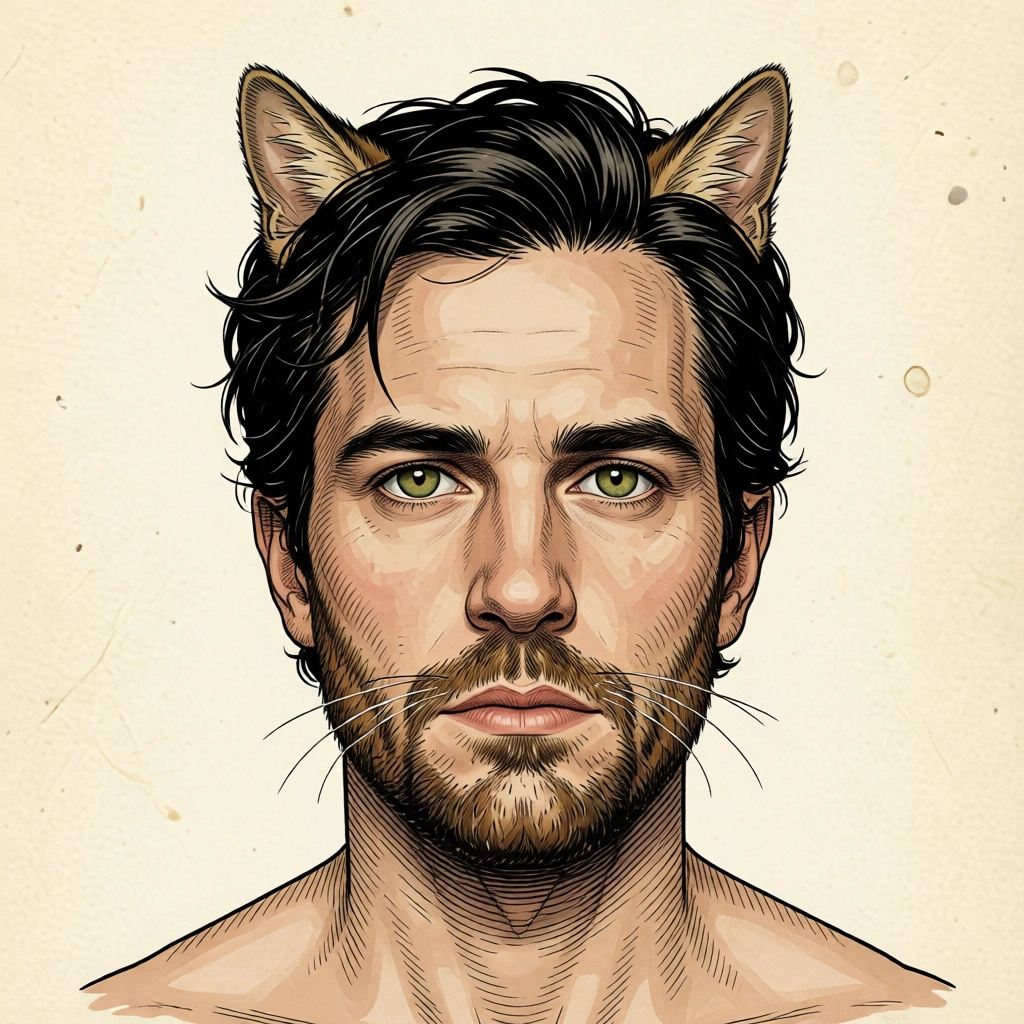
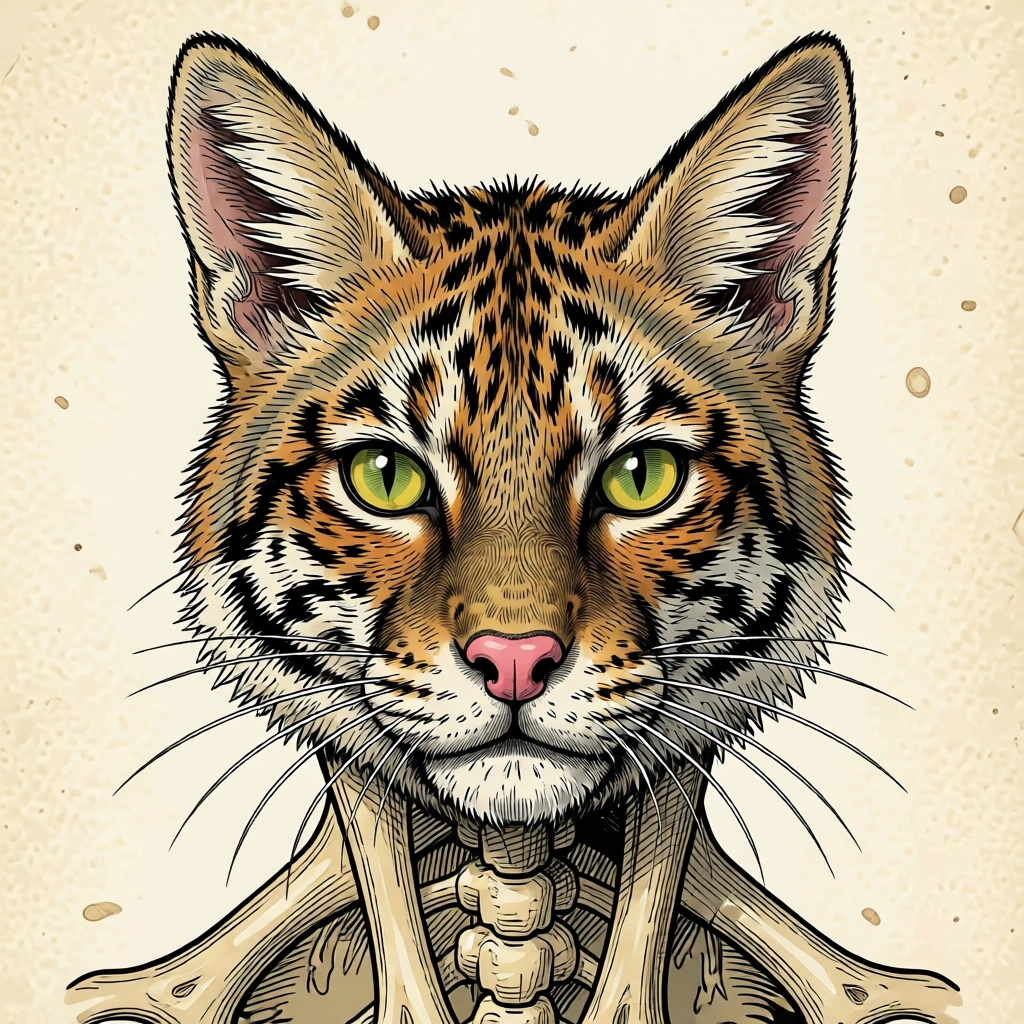
fix(pet-filter): hybrid balance 30/70 — animal-dominant
User feedback: '动物特征多一点，人的特征少一点'. Earlier 50/50 still
read 'human face with creature features added'. Now push to ~30/70:

- HYBRID_PREFIX: 'creature that is MOSTLY ANIMAL with subtle traces
  of human identity buried underneath'
- HYBRID_SUFFIX_GUARD: '~30% human (jawline + eye position +
  shoulders) / ~70% creature (fur, ears, snout, eyes — ALL surface)'
- Per-species: 'PREDOMINANTLY [species]', 'fur covers ALL of the
  face', 'no human skin visible', 'replaces the nose and mouth',
  'only jawline + shoulders subtly hint at the human'

Result should be: looks like an animal at a glance, but on closer
look the jaw / eye position / shoulder structure reveal it's still
the same person underneath.

diff --git a/src/PetFilter/utils/pets.ts b/src/PetFilter/utils/pets.ts
@@ -50,22 +50,23 @@ const STYLE_SUFFIX = (
 // Each prompt leads with the HYBRID framing. The reference image is
 // the user's photo; the model must keep their face recognizable while
 // overlaying the species-specific features below.
-// HYBRID prompt v3. Balance shifted from 70/30 → 50/50:
-// the species features now occupy roughly HALF the head, but the
-// underlying bone structure (jaw, shoulders, eye position) stays
-// recognizable. Earlier 70/30 version produced "human with a hat";
-// this version produces an honest hybrid creature.
+// HYBRID prompt v4. Pushed further: 30/70 (human/creature).
+// Earlier 50/50 still read as "human face + ears" — too human. Now
+// the creature dominates: full fur, full ears replacing hair, full
+// animal eyes. Only the JAWLINE + EYE POSITION + SHOULDERS subtly
+// hint at the human underneath.
 const HYBRID_PREFIX = (
-  'A 19th-century zoological plate of a STRIKING HYBRID creature. ' +
-  'Begin with the person in the reference photo — their facial bone ' +
-  'structure, eye position, jawline, and human shoulders MUST still ' +
-  'be recognizable underneath. But push the species features ' +
-  'PROMINENTLY: they should occupy roughly half the head — bold, ' +
-  'visible, illustrative. Transform their head this way: '
+  'A 19th-century zoological plate of a creature that is MOSTLY ANIMAL ' +
+  'with subtle traces of human identity buried underneath. Reference ' +
+  'the photo only loosely — keep their JAWLINE, their EYE POSITION, ' +
+  'and their HUMAN SHOULDERS visible. Everything else about the head ' +
+  'should be the species. The creature dominates; the human is barely ' +
+  'a ghost of identity inside it. Transform their head this way: '
 );
 const HYBRID_SUFFIX_GUARD = (
-  ' Balance: ~50% human bone structure visible / ~50% creature features ' +
-  'covering the surface. Same person, dramatically transformed. ' +
+  ' Balance: ~30% human (jawline + eye position + shoulders) / ~70% ' +
+  'creature (fur, ears, snout, eyes — ALL of the surface). Lean hard ' +
+  'into the animal. ' +
   'DO NOT include any plaque, ID number, or written text in the image.'
 );
 
@@ -78,7 +79,7 @@ export const PETS: Pet[] = [
     plate: 'I',
     category: 'everyday',
     tint: '#8B4B3A',
-    prompt: HYBRID_PREFIX + 'the face is now SUBSTANTIALLY feline — soft tabby fur covers the cheeks, forehead, and jaw, LARGE triangular tabby cat ears rising prominently from the hair, full feline almond-shaped yellow-green eyes with vertical slit pupils, a distinct pink cat nose, prominent white whiskers fanning out from the muzzle. Bone structure still recognizable.' + HYBRID_SUFFIX_GUARD + STYLE_SUFFIX,
+    prompt: HYBRID_PREFIX + 'the face is now PREDOMINANTLY feline — full tabby cat fur covers ALL of the face (cheeks, forehead, jaw, chin), only fur visible. LARGE triangular tabby ears replace the hair. Full feline almond-shape eyes with vertical slit pupils and amber-yellow irises. A small pink cat nose triangle. Long white whiskers fan from a furry muzzle. Only jawline + shoulder bones subtly hint at the human.' + HYBRID_SUFFIX_GUARD + STYLE_SUFFIX,
   },
   {
     id: 'dog',
@@ -87,7 +88,7 @@ export const PETS: Pet[] = [
     plate: 'II',
     category: 'everyday',
     tint: '#8B4B3A',
-    prompt: HYBRID_PREFIX + 'the face is now SUBSTANTIALLY canine — soft dog fur covers the cheeks, forehead, and jaw, prominent floppy lop ears hanging from the head, a clear dog snout extending forward from the nose, a wet black dog nose, big warm honest brown eyes, mouth slightly open in a gentle smile. Bone structure still recognizable.' + HYBRID_SUFFIX_GUARD + STYLE_SUFFIX,
+    prompt: HYBRID_PREFIX + 'the face is now PREDOMINANTLY canine — full dog fur covers ALL of the face, no human skin visible. Long floppy lop ears hang from the head replacing the hair. A pronounced dog snout extends forward replacing the nose and mouth area. A wet black dog nose. Big warm brown dog eyes. Mouth slightly open with tongue showing. Only jawline + shoulders subtly hint at the human.' + HYBRID_SUFFIX_GUARD + STYLE_SUFFIX,
   },
   {
     id: 'hamster',
@@ -96,7 +97,7 @@ export const PETS: Pet[] = [
     plate: 'III',
     category: 'everyday',
     tint: '#A67C3F',
-    prompt: HYBRID_PREFIX + 'the face is now SIGNIFICANTLY rodent — large puffy stuffed caramel cheeks dominate the lower face, soft golden fur covers the cheeks and forehead, small round hamster ears sit prominently on the head, a tiny pink twitching nose, bright black bead eyes. Bone structure still recognizable underneath.' + HYBRID_SUFFIX_GUARD + STYLE_SUFFIX,
+    prompt: HYBRID_PREFIX + 'the face is now PREDOMINANTLY hamster — full caramel-golden hamster fur covers ALL of the face, huge stuffed round cheeks puff out from each side, round hamster ears on top of the head, a tiny pink twitching nose. Full black bead-bright hamster eyes. Only jawline + shoulders subtly hint at the human.' + HYBRID_SUFFIX_GUARD + STYLE_SUFFIX,
   },
   {
     id: 'duck',
@@ -105,7 +106,7 @@ export const PETS: Pet[] = [
     plate: 'IV',
     category: 'everyday',
     tint: '#B08C2E',
-    prompt: HYBRID_PREFIX + 'a wide prominent flat orange duck bill protruding from the lower face, soft yellow duckling down covering the cheeks and neck like sideburns, calm dark beady duck eyes, the bone structure underneath still recognizable.' + HYBRID_SUFFIX_GUARD + STYLE_SUFFIX,
+    prompt: HYBRID_PREFIX + 'the head is now PREDOMINANTLY duck — fluffy yellow duckling down covers ALL of the face, a wide flat orange duck bill extends prominently replacing the nose and mouth, no human skin visible, calm dark beady duck eyes. Only jawline + shoulders subtly hint at the human.' + HYBRID_SUFFIX_GUARD + STYLE_SUFFIX,
   },
 
   // ─── Wholesome quirky ───
@@ -116,7 +117,7 @@ export const PETS: Pet[] = [
     plate: 'V',
     category: 'wholesome',
     tint: '#7A5B2F',
-    prompt: HYBRID_PREFIX + 'soft coarse brown capybara fur completely covers the cheeks, jaw, and neck, a prominent blunt capybara snout pushes forward from the nose, small rounded capybara ears sit visibly on top of the head, sleepy heavy-lidded brown eyes. Forehead and bone structure still hold the subject\'s identity.' + HYBRID_SUFFIX_GUARD + STYLE_SUFFIX,
+    prompt: HYBRID_PREFIX + 'the face is now PREDOMINANTLY capybara — coarse brown fur covers ALL of the face and neck, no human skin visible, a large blunt capybara snout extends forward replacing the nose and mouth, small rounded capybara ears on top of the head, sleepy heavy-lidded dark beady eyes. Only broad bone structure + shoulders subtly hint at the human.' + HYBRID_SUFFIX_GUARD + STYLE_SUFFIX,
   },
   {
     id: 'sloth',
@@ -125,7 +126,7 @@ export const PETS: Pet[] = [
     plate: 'VI',
     category: 'wholesome',
     tint: '#6E5F38',
-    prompt: HYBRID_PREFIX + 'shaggy moss-tinged grey-brown sloth fur covers the cheeks, forehead, and jaw, prominent dark mask-patches around the eyes (still the subject\'s eyes underneath), heavy half-lidded dreamy expression, a slow benevolent smile, mossy texture in the fur.' + HYBRID_SUFFIX_GUARD + STYLE_SUFFIX,
+    prompt: HYBRID_PREFIX + 'the face is now PREDOMINANTLY sloth — shaggy moss-tinged grey-brown sloth fur covers ALL of the face and head, no human skin visible, prominent dark mask-patches around large heavy-lidded dreamy sloth eyes, a slow benevolent sloth smile, mossy fur texture. Only jawline + shoulders subtly hint at the human.' + HYBRID_SUFFIX_GUARD + STYLE_SUFFIX,
   },
   {
     id: 'parrot',
@@ -134,7 +135,7 @@ export const PETS: Pet[] = [
     plate: 'VII',
     category: 'wholesome',
     tint: '#A33C2A',
-    prompt: HYBRID_PREFIX + 'brilliant scarlet-red and green feather plumage substantially covers the head — feathers replace the hair and frame the face, a prominent curved black macaw beak extends from where the nose and mouth were, sharp curious birdlike eyes with white feathered eye-rings. Bone structure underneath still recognizable.' + HYBRID_SUFFIX_GUARD + STYLE_SUFFIX,
+    prompt: HYBRID_PREFIX + 'the head is now PREDOMINANTLY macaw — brilliant scarlet-red and green feather plumage covers ALL of the face and head, no human skin visible, a large curved black macaw beak extends prominently replacing the nose and mouth, sharp curious birdlike eyes with bare white-skin eye-rings. Only jawline + shoulders subtly hint at the human.' + HYBRID_SUFFIX_GUARD + STYLE_SUFFIX,
   },
   {
     id: 'axolotl',
@@ -143,7 +144,7 @@ export const PETS: Pet[] = [
     plate: 'VIII',
     category: 'wholesome',
     tint: '#B66D6F',
-    prompt: HYBRID_PREFIX + 'translucent pale pink wet skin replaces the human skin tone across the entire face, prominent feathery axolotl gill fronds fan out from the sides of the head where the ears were, a wide perpetual gentle smile, tiny dark dot eyes, faint amphibian markings. Bone structure underneath still recognizable.' + HYBRID_SUFFIX_GUARD + STYLE_SUFFIX,
+    prompt: HYBRID_PREFIX + 'the head is now PREDOMINANTLY axolotl — translucent pale pink wet amphibian skin replaces all skin, prominent feathery gill fronds fan out from each side of the head (where ears were), a wide perpetual amphibian smile across the lower face, large dark dot eyes, faint amphibian markings. Only jawline + shoulders subtly hint at the human.' + HYBRID_SUFFIX_GUARD + STYLE_SUFFIX,
   },
   {
     id: 'hedgehog',
@@ -152,7 +153,7 @@ export const PETS: Pet[] = [
     plate: 'IX',
     category: 'wholesome',
     tint: '#8C6A3D',
-    prompt: HYBRID_PREFIX + 'a dense thick crown of cream-and-brown hedgehog quills replaces the hair across the top of the head and runs down the back of the neck, soft brown fur on the cheeks and chin, a tiny twitching pink nose, small bead-shiny dark eyes. Bone structure underneath still recognizable.' + HYBRID_SUFFIX_GUARD + STYLE_SUFFIX,
+    prompt: HYBRID_PREFIX + 'the head is now PREDOMINANTLY hedgehog — a dense thick coat of cream-and-brown hedgehog quills covers the top, back, and sides of the head replacing all hair, soft brown hedgehog fur covers the entire face, no human skin visible, a small pointed hedgehog snout with twitching pink nose, small bead-shiny dark eyes. Only jawline + shoulders subtly hint at the human.' + HYBRID_SUFFIX_GUARD + STYLE_SUFFIX,
   },
 
   // ─── Uncanny ───
@@ -163,7 +164,7 @@ export const PETS: Pet[] = [
     plate: 'X',
     category: 'uncanny',
     tint: '#3F6E78',
-    prompt: HYBRID_PREFIX + 'two large calcified ridged white-and-cream giant clam shell halves frame the head like an open helmet (one above, one below the face), prominent ruffled iridescent blue-purple mantle flesh inside the shell, faint eye-spots along the mantle rim, the face peers out from between the shell halves. Bone structure still recognizable.' + HYBRID_SUFFIX_GUARD + STYLE_SUFFIX,
+    prompt: HYBRID_PREFIX + 'the head is now PREDOMINANTLY giant clam — two large calcified ridged white-and-cream clam shell halves enclose most of the head like an open helmet, prominent ruffled iridescent blue-purple mantle flesh inside the shell covers most of the face, eye-spots along the mantle rim, only a small slit shows the original human face peering out. Only jawline + shoulders subtly hint at the human.' + HYBRID_SUFFIX_GUARD + STYLE_SUFFIX,
   },
   {
     id: 'octopus',
@@ -172,7 +173,7 @@ export const PETS: Pet[] = [
     plate: 'XI',
     category: 'uncanny',
     tint: '#5B3A6E',
-    prompt: HYBRID_PREFIX + 'a LARGE bulbous violet octopus mantle dominates the top half of the head, replacing the hair entirely, thick purple suckered tentacles cascade down around the face and over the shoulders, mottled green-purple chromatophore patches across the cheeks, larger horizontal-slit pupil eyes. Lower face and jawline remain the subject\'s.' + HYBRID_SUFFIX_GUARD + STYLE_SUFFIX,
+    prompt: HYBRID_PREFIX + 'the head is now PREDOMINANTLY octopus — a large bulbous violet octopus mantle fully replaces the skull and hair, thick purple suckered tentacles cascade down covering most of the head and shoulders, mottled green-purple chromatophore skin replaces all visible flesh, large horizontal-slit cephalopod eyes. Only jawline + shoulder bones subtly hint at the human.' + HYBRID_SUFFIX_GUARD + STYLE_SUFFIX,
   },
   {
     id: 'snail',
@@ -181,7 +182,7 @@ export const PETS: Pet[] = [
     plate: 'XII',
     category: 'uncanny',
     tint: '#4F5E2A',
-    prompt: HYBRID_PREFIX + 'a LARGE glossy spiral brown snail shell rises prominently from the top and back of the head, two long sensitive snail eye-stalks lift up from the temples (with small black eye-dots at the tips), the skin appears moist and translucent, faint mollusk texture on the cheeks. Lower face and jawline remain the subject\'s.' + HYBRID_SUFFIX_GUARD + STYLE_SUFFIX,
+    prompt: HYBRID_PREFIX + 'the head is now PREDOMINANTLY snail — a large glossy spiral brown snail shell occupies the back of the head, two long sensitive snail eye-stalks rise prominently from the top of the head with black eye-dots at the tips, moist translucent mollusk skin replaces all human skin, faint slime sheen on the face. Only jawline + shoulders subtly hint at the human.' + HYBRID_SUFFIX_GUARD + STYLE_SUFFIX,
   },
 ];
 

diff --git a/gen_hybrid_only.py b/gen_hybrid_only.py
@@ -116,16 +116,17 @@ PLATE_STYLE = (
 
 def hybrid(features):
     return (
-        "A 19th-century zoological plate of a STRIKING HYBRID creature. "
-        "Begin with the man in the reference photo — his facial bone "
-        "structure, eye position, jawline, and human shoulders MUST "
-        "still be recognizable underneath. But push the species features "
-        "PROMINENTLY: they should occupy roughly half the head — bold, "
-        "visible, illustrative. This is a STRONG hybrid, not a subtle one. "
-        f"Transform his head this way: {features} "
-        "Balance: ~50% human bone structure visible / ~50% creature features "
-        "covering the surface. Same person, dramatically transformed. "
-        "DO NOT include any plaque, ID number, or written text in the image."
+        "A 19th-century zoological plate of a creature that is MOSTLY ANIMAL "
+        "with subtle traces of human identity buried underneath. Reference "
+        "the photo of the man only loosely — keep his JAWLINE, his EYE "
+        "POSITION, and his HUMAN SHOULDERS visible. Everything else about "
+        "the head should be the species. The creature dominates; the human "
+        "is barely a ghost of identity inside it. "
+        f"Transform him this way: {features} "
+        "Balance: ~30% human (bone structure + eye position + shoulders) / "
+        "~70% creature (fur, ears, snout, eyes, ALL of the surface). "
+        "Lean hard into the animal. DO NOT include any plaque, ID number, "
+        "or written text in the image."
         + PLATE_STYLE
     )
 
@@ -133,33 +134,37 @@ def hybrid(features):
 JOBS = [
     {
         "out": "public/demo_pet_cat.jpg",
-        "feats": "the face is now SUBSTANTIALLY feline — soft tabby fur "
-                 "covers the cheeks, forehead, and jaw, LARGE triangular "
-                 "tabby cat ears rising prominently from his hair, full "
-                 "feline almond-shaped yellow-green eyes with vertical "
-                 "slit pupils replacing his round human eyes, a distinct "
-                 "pink cat nose where his nose was, prominent white "
-                 "whiskers fanning out from the muzzle. The man's bone "
-                 "structure (jaw, shoulders) is still recognizable underneath.",
+        "feats": "the face is now PREDOMINANTLY feline — full tabby cat fur "
+                 "covers ALL of the face (cheeks, forehead, jaw, chin), the "
+                 "skin is no longer visible — only fur. LARGE triangular "
+                 "tabby ears on top of the head replace the hair entirely. "
+                 "The eyes are full feline almond-shape with vertical slit "
+                 "pupils and amber-yellow irises. The nose is a small pink "
+                 "cat triangle. Long white whiskers fan from a furry muzzle. "
+                 "Only the jawline shape + shoulder bone structure subtly "
+                 "hint at the man underneath. He is mostly a cat.",
     },
     {
         "out": "public/demo_pet_capybara.jpg",
-        "feats": "the lower face is now significantly capybara — soft coarse "
-                 "brown capybara fur completely covers the cheeks, jaw, and "
-                 "neck, a prominent blunt capybara snout pushes forward from "
-                 "the nose, small rounded capybara ears sit visibly on top "
-                 "of his head, sleepy heavy-lidded brown eyes. The forehead "
-                 "and bone structure still hold his identity.",
+        "feats": "the face is now PREDOMINANTLY capybara — coarse brown "
+                 "capybara fur covers the entire face and neck, no human "
+                 "skin visible, a large blunt capybara snout extends "
+                 "prominently forward replacing the nose and mouth area, "
+                 "small rounded capybara ears on top of the head replace "
+                 "the hair, sleepy heavy-lidded dark beady eyes. Only the "
+                 "broad facial bone structure + shoulders subtly hint at "
+                 "the human underneath.",
     },
     {
         "out": "public/demo_pet_octopus.jpg",
-        "feats": "a LARGE bulbous violet octopus mantle dominates the top "
-                 "half of the head, replacing the hair entirely — thick "
-                 "purple suckered tentacles cascade down around the face "
-                 "and over the shoulders, the skin shows mottled green-"
-                 "purple chromatophore patches across the cheeks, the eyes "
-                 "are now larger and horizontal-slitted but still in his "
-                 "face. Lower face and jawline remain the man's.",
+        "feats": "the head is now PREDOMINANTLY a large bulbous violet "
+                 "octopus mantle, fully replacing the skull and hair, thick "
+                 "purple suckered tentacles cascade down around the head "
+                 "and over the shoulders covering most of the body, mottled "
+                 "green-purple chromatophore skin replaces all visible flesh, "
+                 "the eyes are large horizontal-slit cephalopod pupils. "
+                 "Only the rough head-position and shoulders subtly hint at "
+                 "the human underneath.",
     },
 ]
 
